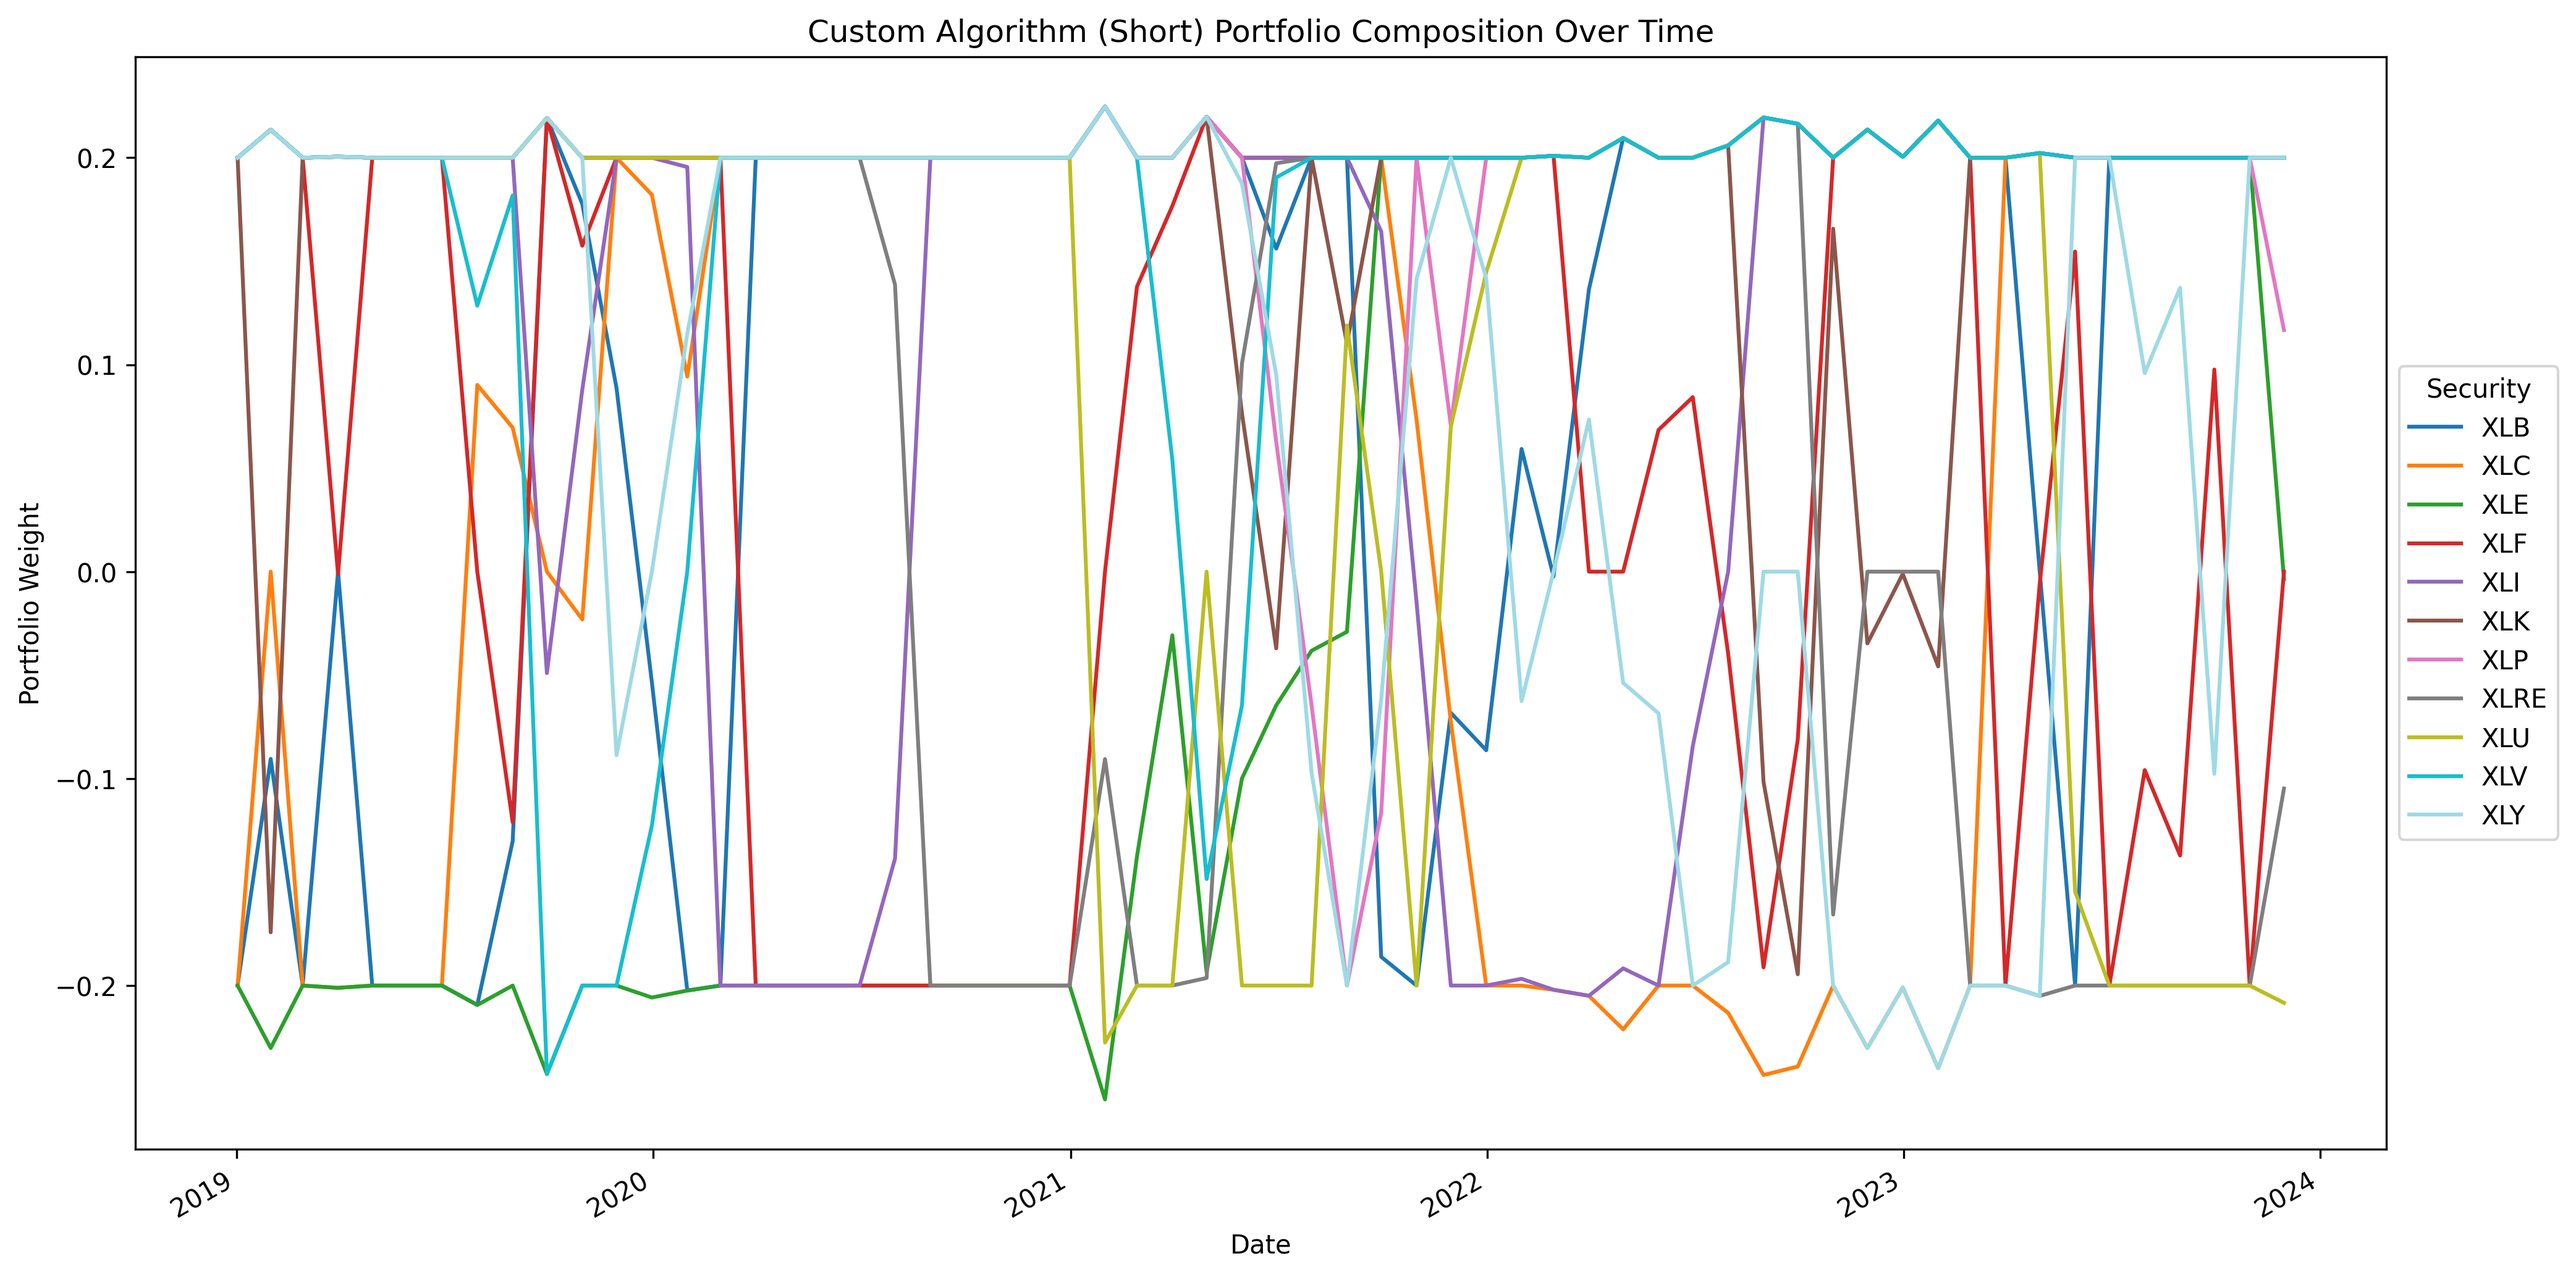
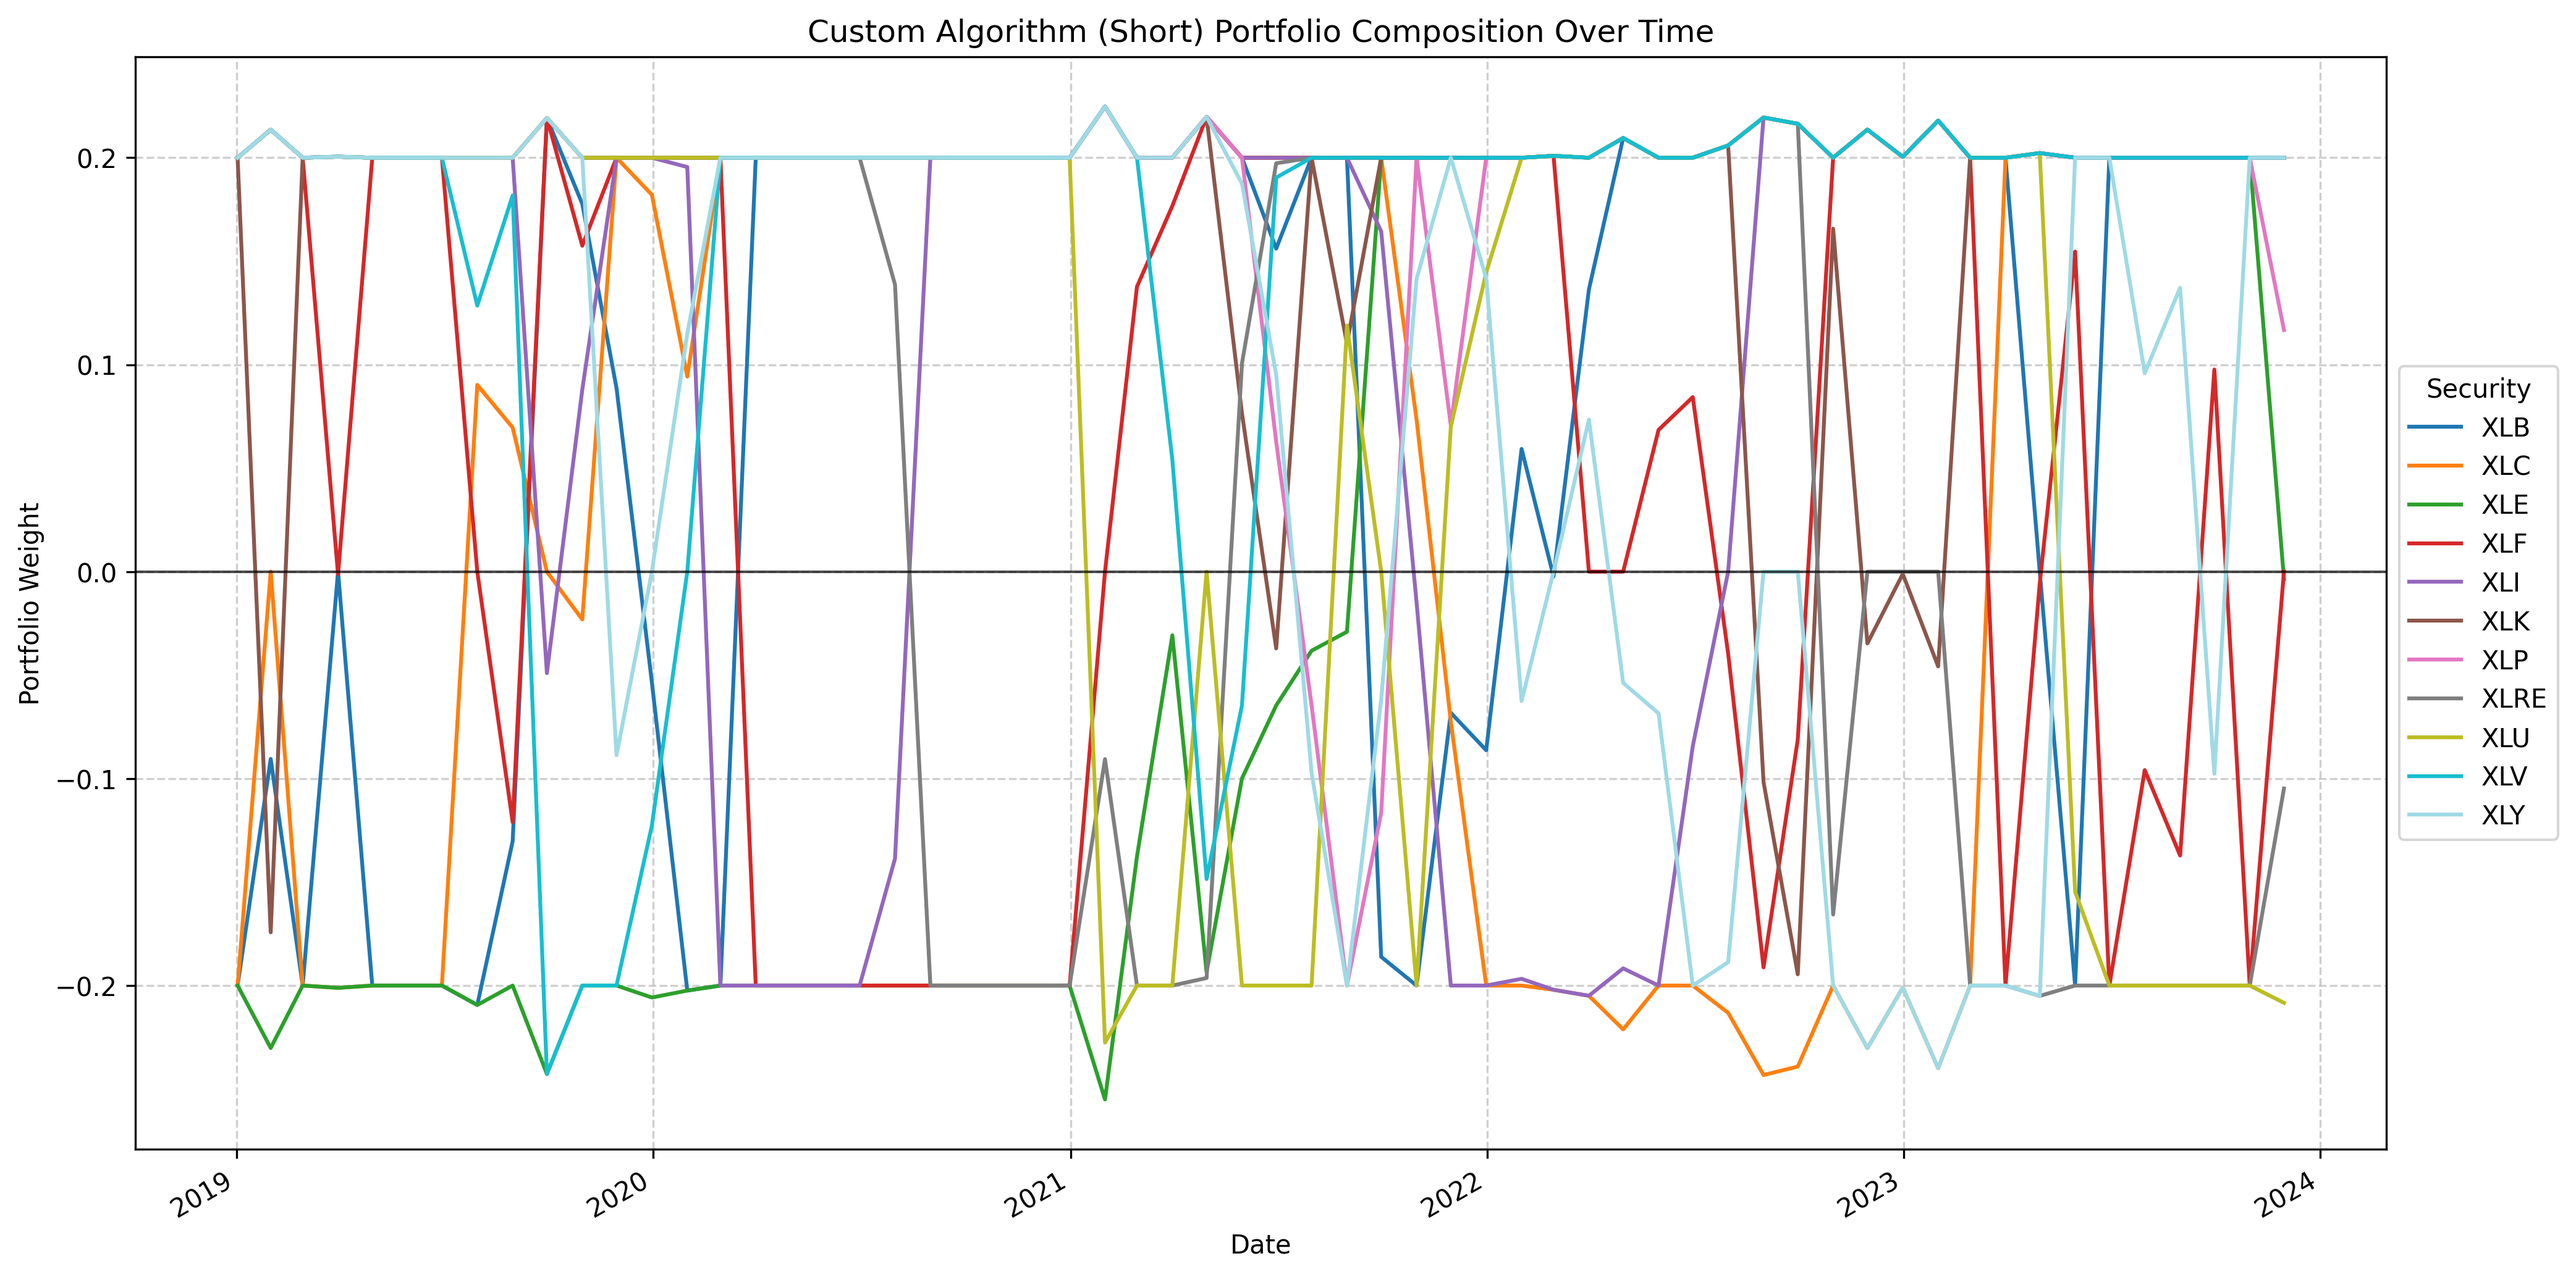
adding a prettier graph

diff --git a/src/analysis/benchmark_analysis.py b/src/analysis/benchmark_analysis.py
@@ -180,7 +180,14 @@ def plot_custom_algorithm_composition(output_dir: str, period: str = None):
             print(
                 f"Negative weights detected in {rebal_path}: plotting as line chart (not stacked area) due to short sales."
             )
-            weights_norm.plot(ax=plt.gca(), cmap="tab20")
+            ax = plt.gca()
+            weights_norm.plot(ax=ax, cmap="tab20")
+
+            # Add a horizontal line at y=0 to clearly show the boundary between long and short positions
+            ax.axhline(y=0, color="black", linestyle="-", linewidth=1.0, alpha=0.7)
+
+            # Add grid lines to make it easier to see position sizes
+            ax.grid(True, linestyle="--", alpha=0.6)
         else:
             weights_norm.plot.area(ax=plt.gca(), stacked=True, cmap="tab20")
 
